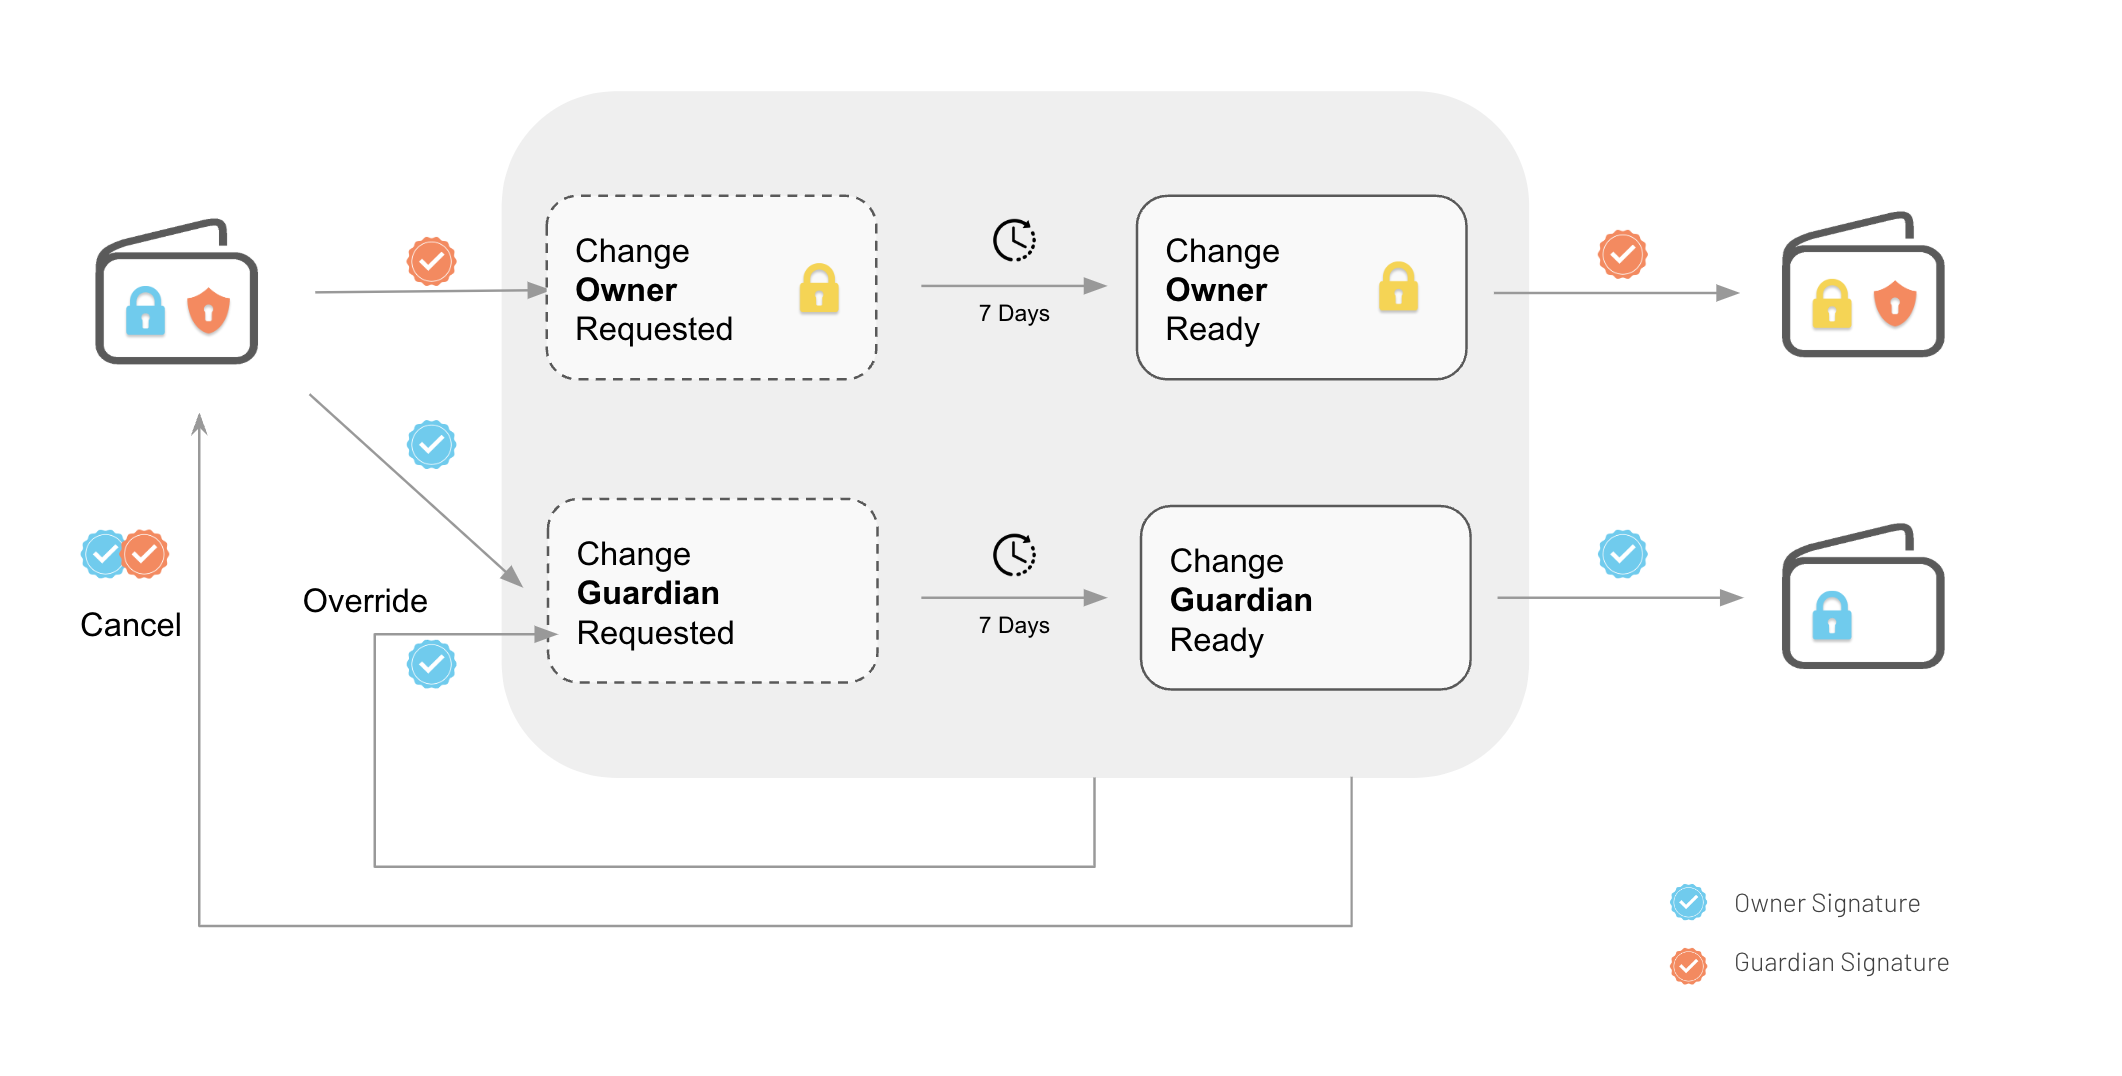
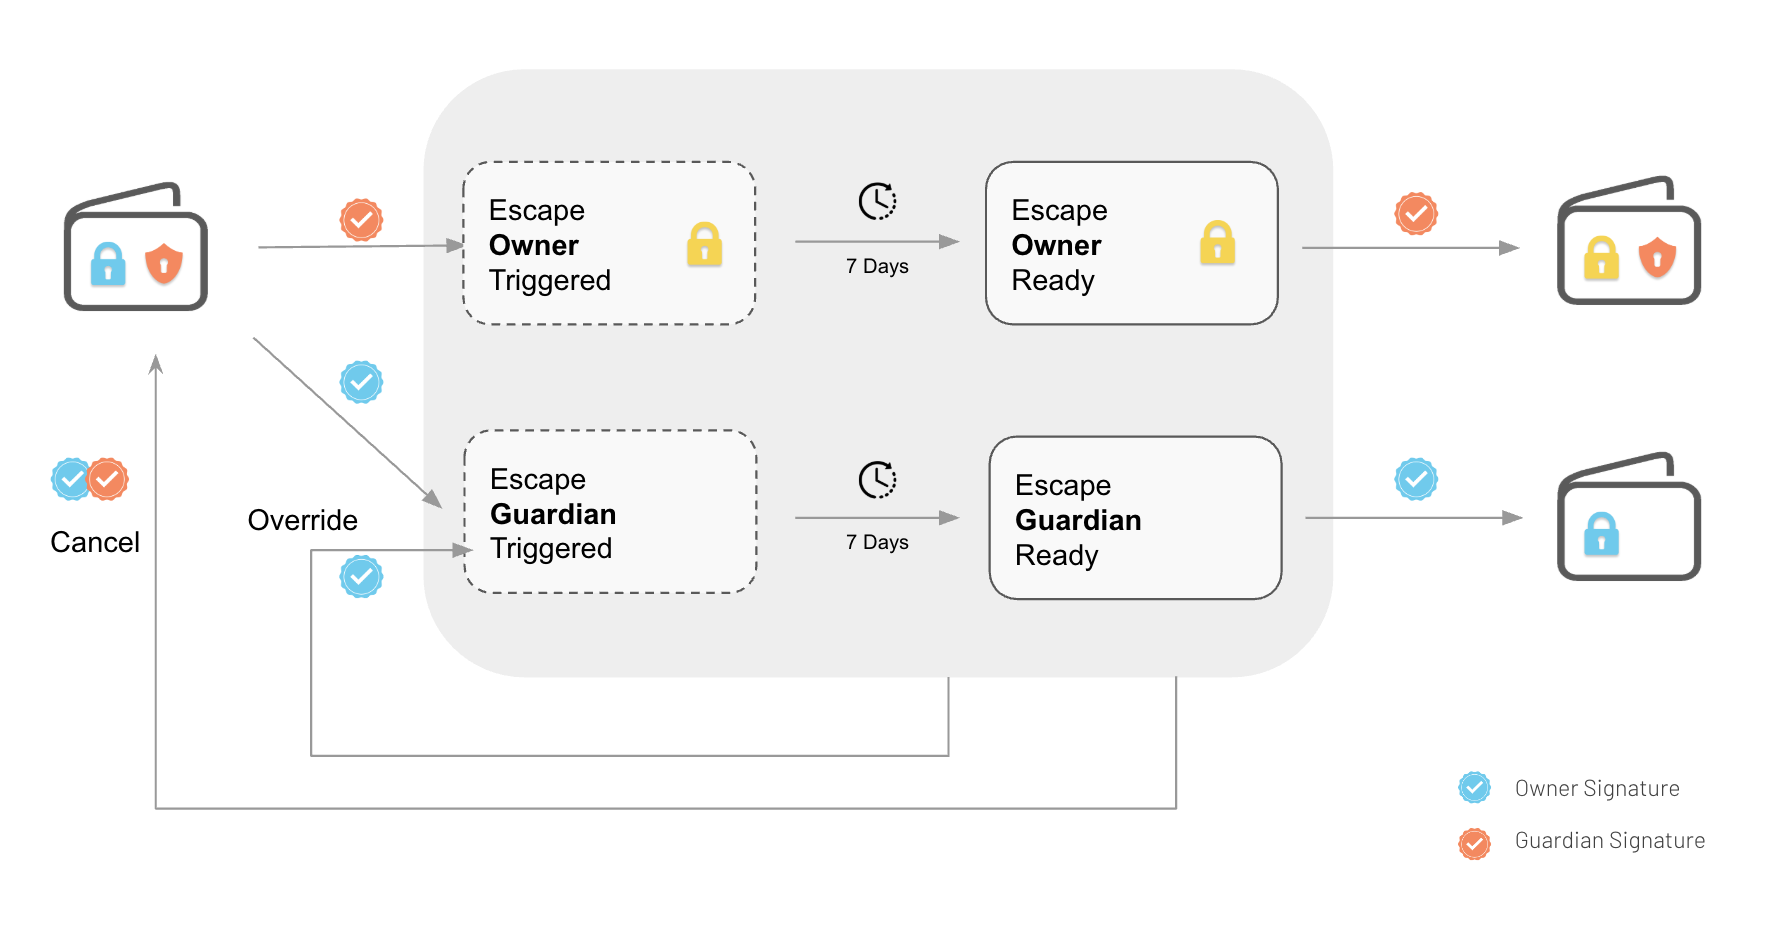
Clarify escape diagram and typo

diff --git a/docs/argent_account_escape.md b/docs/argent_account_escape.md
@@ -22,7 +22,7 @@ Guardians and the escape process can protect against lost owner keys and against
 An escape can be **triggered** by one role (owner or guardian), requesting to modify the other role (`trigger_escape_guardian` or `trigger_escape_owner`). This kicks off a security period where many things can happen:
 
 * Both roles agree on a transaction to resolve the situation. Calling methods that will **cancel the escape**. For instance: `cancel_escape`, `change_guardians`, `change_owners`, `upgrade`.
-* The other role can trigger a **new escape** to prevent the escape: For instance, a malicious guardian requested to change the owners. The owner can trigger a new escape to remove the guardian.
+* The other role can trigger a **new escape** to prevent the escape: For instance, if a malicious guardian requested to change the owners. The owner can trigger a new escape to remove the guardian.
 * The **security period elapses** with no further actions. The escape is then active.
   * When the escape is active, the same role that triggered it can **complete the escape** by calling `escape_guardian` or `escape_owner`. The account **owners or guardians will be replaced** by the new owners or guardians requested when the escape was triggered.
   * The escape can also be **cancelled** by both roles **or overridden** by a new escape.
